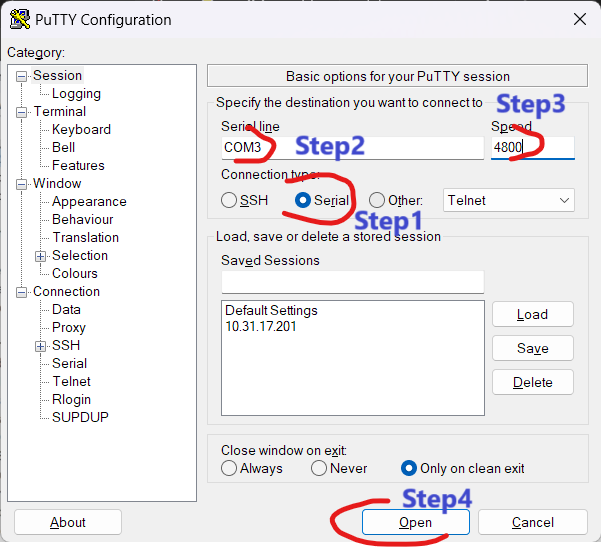
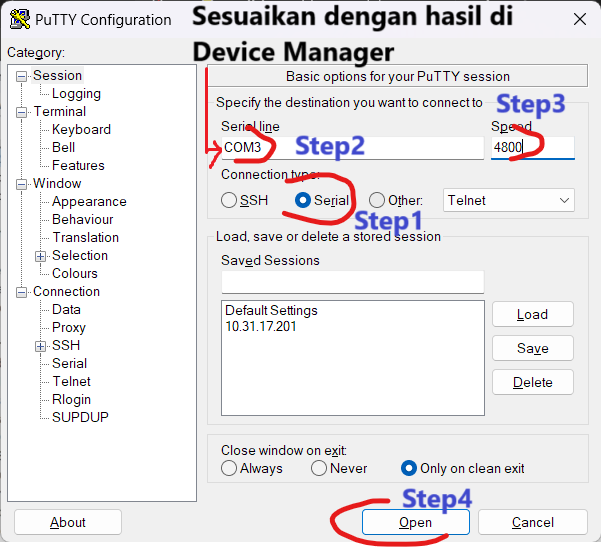
Fix P1 P3 P5 P6 README.md

Changed region(s): [[0.2995, 0.0, 0.8686, 0.3102]]

diff --git a/AT89S51-AT89S52/Subpercobaan 5 Aritmatika biner pada serial monitor/README.md b/AT89S51-AT89S52/Subpercobaan 5 Aritmatika biner pada serial monitor/README.md
@@ -9,35 +9,68 @@
 3. Putty/SdjTerm
 
 ## Langkah - Langkah:
-1. Hubungan Modul Mikrokontroler AT89S51/AT89S52 dengan USB to TTL seperti tabel dan gambar berikut:
+1. Jika modul I/O _shield_ terpasang di modul mikrokontroler, cabut.
+2. Buka file `arithmatika.asm` di MIDE-51 Studio. Klik `F9` untuk _Build_.
+3. Buka ProgISP, pilih _chip_ AT89S51/AT89S52. Klik `RD` untuk memastikan AT89S51/AT89S52 sudah tersambung dengan ProgISP.
 
-|Modul Mikrokontroler AT89S51/AT89S52|USB to TTL|
+|Masalah|Solusi|
+|---|---|
+|Tampil notifikasi `❌ Programmer can not be found.`|Hubungkan USBasp ke komputer dan mikrokontroler yang diinginkan.|
+|Tampil notifikasi `❌ Chip Enable Program Error`|Tipe _chip_ tidak sesuai. Ubah ke tipe _chip_ yang sesuai. Contoh: Awalnya _chip_ yang dipilih ATmega8535, ubah ke AT89S51.|
+|Tampil notifikasi `❌ Chip Signature doesn't match`|Ubah tipe _chip_ ke varian lain yang masih satu famili. Contoh: Awalnya _chip_ yang dipilih AT89S51, ubah ke AT89S52.|
+
+4. Klik `File>Load Flash`, cari folder `AT89S51-AT89S52/Subpercobaan 5 Aritmatika biner pada serial monitor` dan pilih `arithmatika.hex`
+5. Klik `Auto`, maka ProgISP akan melakukan upload kode ke AT89S51/AT89S52.
+
+|Masalah|Solusi|
+|---|---|
+|Tampil notifikasi `❌ Flash Verify Error at: 0h`|Cabut terlebih dahulu modul I/O _shield_, kemudian klik `Auto` dan pasang kembali modul I/O _shield_.|
+
+6. Hubungkan modul mikrokontroler AT89S51/AT89S52 dengan USB to TTL seperti tabel dan gambar berikut:
+
+|**Modul Mikrokontroler AT89S51/AT89S52**|**USB to TTL**|
 |---|---|
 |RX|TXD|
 |TX|RXD|
 |GND|GND|
 
 ![Percobaan 5 Mikrokontroler AT89S51/AT89S52](/assets/images/AT89S51-AT89S52/P5.jpeg)
+|:--:|
+|**Gambar 1. Percobaan 5 Mikrokontroler AT89S51/AT89S52**|
 
 ![Percobaan 5 Mikrokontroler AT89S51/AT89S52](/assets/images/AT89S51-AT89S52/P5-UART-1.jpeg)
+|:--:|
+|**Gambar 2. Kabel UART pada sisi mikrokontroler**|
 
 ![Percobaan 5 Mikrokontroler AT89S51/AT89S52](/assets/images/AT89S51-AT89S52/P5-UART-2.jpeg)
+|:--:|
+|**Gambar 3. Kabel UART pada sisi USB to TTL**|
 
-2. Buka file ```arithmatika.asm``` di MIDE-51 Studio. Klik ```F9``` untuk _Build_.
-3. Buka ProgISP, pastikan _chip_ yang dipilih adalah AT89S51/AT89S52. Klik ```RD``` untuk memastikan AT89S51/AT89S52 sudah tersambung dengan ProgISP.
-4. Jika tampil notifikasi ```Chip Signature doesn't match```, maka kemungkinan salah tipe _chip_. Ganti ke _chip_ yang sesuai.
-5. Klik ```File>Load Flash```, cari folder ```AT89S51-AT89S52/Subpercobaan 5 Aritmatika biner pada serial monitor``` dan pilih ```arithmatika.hex```
-6. Klik ```Auto```, maka ProgISP akan melakukan upload kode ke AT89S51/AT89S52.
 7. Buka Device Manager. Lihat Ports (COM & LPT)
 
-![Percobaan 5 Mikrokontroler AT89S51/AT89S52](/assets/images/AT89S51-AT89S52/P5-devmgmt-1.png)
+![Percobaan 5 Mikrokontroler AT89S51/AT89S52](/assets/images/AT89S51-AT89S52/P5-devmgmt-search-1.png)
+|:--:|
+|**Gambar 4. Mencari `Device Manager` pada Windows**|
 
-![Percobaan 5 Mikrokontroler AT89S51/AT89S52](/assets/images/AT89S51-AT89S52/P5-devmgmt-2.png)
+![Percobaan 5 Mikrokontroler AT89S51/AT89S52](/assets/images/AT89S51-AT89S52/P5-devmgmt-search-2.png)
+|:--:|
+|**Gambar 5. Mencari `devmgmt.msc` pada Windows**|
+
+![Percobaan 5 Mikrokontroler AT89S51/AT89S52](/assets/images/AT89S51-AT89S52/P5-devmgmt-search-3.png)
+|:--:|
+|**Gambar 6. Mencari `devmgmt.msc` pada Run(Win+R)**|
+
+![Percobaan 5 Mikrokontroler AT89S51/AT89S52](/assets/images/AT89S51-AT89S52/P5-devmgmt-com.png)
+|:--:|
+|**Gambar 7. Mencari COM USB to TTL**|
 
 ![Percobaan 5 Mikrokontroler AT89S51/AT89S52](/assets/images/AT89S51-AT89S52/P5-putty-1.png)
+|:--:|
+|**Gambar 8. Koneksi ke USB to TTL menggunakan Putty**|
 
 ![Percobaan 5 Mikrokontroler AT89S51/AT89S52](/assets/images/AT89S51-AT89S52/P5-putty-2.png)
-
+|:--:|
+|**Gambar 9. Hasil koneksi Putty**|
 
 8. Buka Putty, atur _connection type_ ke _Serial_. Atur _Serial line_ ke COM yang telah dilihat di Device manager. Atur _Speed_/_BaudRate_ ke 4800. Klik _Open_.
 9. Jika tampilan masih kosong, klik tombol RESET pada mikrokontroler. _Output_ yang pertama muncul adalah **94 4C C1** dan yang terakhir muncul adalah **55 32 C1**.

diff --git a/AT89S51-AT89S52/Subpercobaan 3 Input Debouncing/README.md b/AT89S51-AT89S52/Subpercobaan 3 Input Debouncing/README.md
@@ -12,13 +12,30 @@
 2. ProgISP
 
 ## Langkah - Langkah:
-1. Buka file ```p1_3_fix.asm``` di MIDE-51 Studio. Klik ```F9``` untuk _Build_.
-2. Hubungkan alat menggunakan kabel header/konektor IDC ICSP 10 pin _female to female_ sesuai tabel berikut:
+1. Jika modul I/O _shield_ terpasang di modul mikrokontroler, cabut.
+2. Buka file `p1_3_fix.asm` di MIDE-51 Studio. Klik `F9` untuk _Build_.
+3. Buka ProgISP, pilih _chip_ AT89S51/AT89S52. Klik `RD` untuk memastikan AT89S51/AT89S52 sudah tersambung dengan ProgISP.
 
-|Hardware|Port|
+|Masalah|Solusi|
 |---|---|
-|Modul _Push Button_|Port A/0|
+|Tampil notifikasi `❌ Programmer can not be found.`|Hubungkan USBasp ke komputer dan mikrokontroler yang diinginkan.|
+|Tampil notifikasi `❌ Chip Enable Program Error`|Tipe _chip_ tidak sesuai. Ubah ke tipe _chip_ yang sesuai. Contoh: Awalnya _chip_ yang dipilih ATmega8535, ubah ke AT89S51.|
+|Tampil notifikasi `❌ Chip Signature doesn't match`|Ubah tipe _chip_ ke varian lain yang masih satu famili. Contoh: Awalnya _chip_ yang dipilih AT89S51, ubah ke AT89S52.|
+
+4. Klik `File>Load Flash`, cari folder `AT89S51-AT89S52/Subpercobaan 3 Input Debouncing` dan pilih `p1_3_fix.hex`
+5. Klik `Auto`, maka ProgISP akan melakukan upload kode ke AT89S51/AT89S52.
+
+|Masalah|Solusi|
+|---|---|
+|Tampil notifikasi `❌ Flash Verify Error at: 0h`|Cabut terlebih dahulu modul I/O _shield_, kemudian klik `Auto` dan pasang kembali modul I/O _shield_.|
+
+6. Hubungkan modul dengan modul I/O _shield_ menggunakan kabel header/konektor IDC ICSP 10 pin _female to female_ sesuai tabel berikut:
+
+|**Hardware**|**Modul I/O _shield_**|
+|---|---|
+|Kabel DuPont (menuju resistor di breadboard)|Port A/0 Pin 0 (lihat gambar)|
 |Modul LED (_Active Low_)|Port B/1|
+|Modul _Push Button_|Port C/3|
 
 |![Percobaan 3 Mikrokontroler AT89S51/AT89S52](/assets/images/AT89S51-AT89S52/P3.jpeg)|
 |:--:|
@@ -28,22 +45,20 @@
 |:--:|
 |**Gambar 2. Skema Amplifier Buzzer dengan Transistor PNP S9012**|
 
+|![Percobaan 3 Mikrokontroler AT89S51/AT89S52](/assets/images/AT89S51-AT89S52/S9012-Pinout.jpg)|
+|:--:|
+|**Gambar 3. _Pinout_ Transistor PNP S9012**|
+
 |![Percobaan 3 Mikrokontroler AT89S51/AT89S52](/assets/images/AT89S51-AT89S52/P3-Port0-0.jpeg)|
 |:--:|
-|**Gambar 3. Rangkaian Port0.0**|
+|**Gambar 4. Rangkaian Port 0.0**|
 
 |![Percobaan 3 Mikrokontroler AT89S51/AT89S52](/assets/images/p01%20header%20io.jpg)|
 |:--:|
-|**Gambar 4. Rangkaian Header I/O**|
+|**Gambar 5. Rangkaian Header I/O**|
 
 |![Percobaan 3 Mikrokontroler AT89S51/AT89S52](/assets/images/AT89S51-AT89S52/P3-amplifier-realworld.jpeg)|
 |:--:|
-|**Gambar 5. Rangkaian Amplifier Buzzer dengan Transistor PNP S9012**|
+|**Gambar 6. Rangkaian Amplifier Buzzer dengan Transistor PNP S9012**|
 
-
-
-3. Buka ProgISP, pastikan _chip_ yang dipilih adalah AT89S51/AT89S52. Klik ```RD``` untuk memastikan AT89S51/AT89S52 sudah tersambung dengan ProgISP.
-4. Jika tampil notifikasi ```Chip Signature doesn't match```, maka kemungkinan salah tipe _chip_. Ganti ke _chip_ yang sesuai.
-5. Klik ```File>Load Flash```, cari folder ```AT89S51-AT89S52/Subpercobaan 3 Input Debouncing``` dan pilih ```p1_3_fix.hex```
-6. Klik ```Auto```, maka ProgISP akan melakukan upload kode ke AT89S51/AT89S52.
-7. Tekan tombol nomor 2
+7. Tekan tombol nomor 2. Maka LED akan menyala 1 buah dan buzzer akan menyala.

diff --git a/AT89S51-AT89S52/Subpercobaan 1 Kedip/README.md b/AT89S51-AT89S52/Subpercobaan 1 Kedip/README.md
@@ -12,10 +12,26 @@
 2. ProgISP
 
 ## Langkah - Langkah:
-1. Buka file ```p1_1_fix.asm``` di MIDE-51 Studio. Klik ```F9``` untuk _Build_.
-2. Hubungkan alat menggunakan kabel header/konektor IDC ICSP 10 pin _female to female_ sesuai tabel berikut:
+1. Jika modul I/O _shield_ terpasang di modul mikrokontroler, cabut.
+2. Buka file `p1_1_fix.asm` di MIDE-51 Studio. Klik `F9` untuk _Build_.
+3. Buka ProgISP, pilih _chip_ AT89S51/AT89S52. Klik `RD` untuk memastikan AT89S51/AT89S52 sudah tersambung dengan ProgISP.
 
-|Hardware|Port|
+|Masalah|Solusi|
+|---|---|
+|Tampil notifikasi `❌ Programmer can not be found.`|Hubungkan USBasp ke komputer dan mikrokontroler yang diinginkan.|
+|Tampil notifikasi `❌ Chip Enable Program Error`|Tipe _chip_ tidak sesuai. Ubah ke tipe _chip_ yang sesuai. Contoh: Awalnya _chip_ yang dipilih ATmega8535, ubah ke AT89S51.|
+|Tampil notifikasi `❌ Chip Signature doesn't match`|Ubah tipe _chip_ ke varian lain yang masih satu famili. Contoh: Awalnya _chip_ yang dipilih AT89S51, ubah ke AT89S52.|
+
+4. Klik `File>Load Flash`, cari folder `AT89S51-AT89S52\Subpercobaan 1 Kedip` dan pilih `p1_1_fix.hex`
+5. Klik `Auto`, maka ProgISP akan melakukan upload kode ke AT89S51/AT89S52.
+
+|Masalah|Solusi|
+|---|---|
+|Tampil notifikasi `❌ Flash Verify Error at: 0h`|Cabut terlebih dahulu modul I/O _shield_, kemudian klik `Auto` dan pasang kembali modul I/O _shield_.|
+
+6. Hubungkan modul dengan modul I/O _shield_ menggunakan kabel header/konektor IDC ICSP 10 pin _female to female_ sesuai tabel berikut:
+
+|**Hardware**|**Modul I/O _shield_**|
 |---|---|
 |Modul _Push Button_|Port A/0|
 |Modul LED (_Active Low_)|Port B/1|
@@ -24,8 +40,4 @@
 |:--:|
 |**Gambar 1. Percobaan 1 Mikrokontroler AT89S51/AT89S52**|
 
-3. Buka ProgISP, pastikan _chip_ yang dipilih adalah AT89S51/AT89S52. Klik ```RD``` untuk memastikan AT89S51/AT89S52 sudah tersambung dengan ProgISP.
-4. Jika tampil notifikasi ```Chip Signature doesn't match```, maka kemungkinan salah tipe _chip_. Ganti ke _chip_ yang sesuai.
-5. Klik ```File>Load Flash```, cari folder ```AT89S51-AT89S52\Subpercobaan 1 Kedip``` dan pilih ```p1_1_fix.hex```
-6. Klik ```Auto```, maka ProgISP akan melakukan upload kode ke AT89S51/AT89S52.
 7. Pencet tombol _push button_ dari nol hingga tujuh, lalu kembali lagi ke nol dan perhatikan apa yang terjadi pada modul LED _Active Low_

diff --git a/AT89S51-AT89S52/Subpercobaan 6 Saklar Cepat Tepat/README.md b/AT89S51-AT89S52/Subpercobaan 6 Saklar Cepat Tepat/README.md
@@ -12,8 +12,24 @@
 2. ProgISP
 
 ## Langkah - Langkah:
-1. Buka file ```p1_6_fix.asm``` di MIDE-51 Studio. Klik ```F9``` untuk _Build_.
-2. Hubungkan alat menggunakan kabel header/konektor IDC ICSP 10 pin _female to female_ sesuai tabel berikut:
+1. Jika modul I/O _shield_ terpasang di modul mikrokontroler, cabut.
+2. Buka file `p1_6_fix.asm` di MIDE-51 Studio. Klik `F9` untuk _Build_.
+3. Buka ProgISP, pilih _chip_ AT89S51/AT89S52. Klik `RD` untuk memastikan AT89S51/AT89S52 sudah tersambung dengan ProgISP.
+
+|Masalah|Solusi|
+|---|---|
+|Tampil notifikasi `❌ Programmer can not be found.`|Hubungkan USBasp ke komputer dan mikrokontroler yang diinginkan.|
+|Tampil notifikasi `❌ Chip Enable Program Error`|Tipe _chip_ tidak sesuai. Ubah ke tipe _chip_ yang sesuai. Contoh: Awalnya _chip_ yang dipilih ATmega8535, ubah ke AT89S51.|
+|Tampil notifikasi `❌ Chip Signature doesn't match`|Ubah tipe _chip_ ke varian lain yang masih satu famili. Contoh: Awalnya _chip_ yang dipilih AT89S51, ubah ke AT89S52.|
+
+4. Klik `File>Load Flash`, cari folder `AT89S51-AT89S52/Subpercobaan 6 Saklar Cepat Tepat` dan pilih `p1_6_fix.hex`
+5. Klik `Auto`, maka ProgISP akan melakukan upload kode ke AT89S51/AT89S52.
+
+|Masalah|Solusi|
+|---|---|
+|Tampil notifikasi `❌ Flash Verify Error at: 0h`|Cabut terlebih dahulu modul I/O _shield_, kemudian klik `Auto` dan pasang kembali modul I/O _shield_.|
+
+6. Hubungkan modul dengan modul I/O _shield_ menggunakan kabel header/konektor IDC ICSP 10 pin _female to female_ sesuai tabel berikut:
 
 |Hardware|Port|
 |---|---|
@@ -25,9 +41,4 @@
 |**Gambar 1. Percobaan 6 Mikrokontroler AT89S51/AT89S52**|
 
 
-
-3. Buka ProgISP, pastikan _chip_ yang dipilih adalah AT89S51/AT89S52. Klik ```RD``` untuk memastikan AT89S51/AT89S52 sudah tersambung dengan ProgISP.
-4. Jika tampil notifikasi ```Chip Signature doesn't match```, maka kemungkinan salah tipe _chip_. Ganti ke _chip_ yang sesuai.
-5. Klik ```File>Load Flash```, cari folder ```AT89S51-AT89S52/Subpercobaan 6 Saklar Cepat Tepat``` dan pilih ```p1_6_fix.hex```
-6. Klik ```Auto```, maka ProgISP akan melakukan upload kode ke AT89S51/AT89S52.
-7. Tekan tombol nomor 0, 1, dan 2 secara bergantian
+7. Tekan tombol nomor 0, 1, dan 2 secara bergantian. Cobalah untuk menekan tombol 0, 1, dan 2 secara bersamaan kemudian perhatikan LED mana yang lebih dulu menyala.
